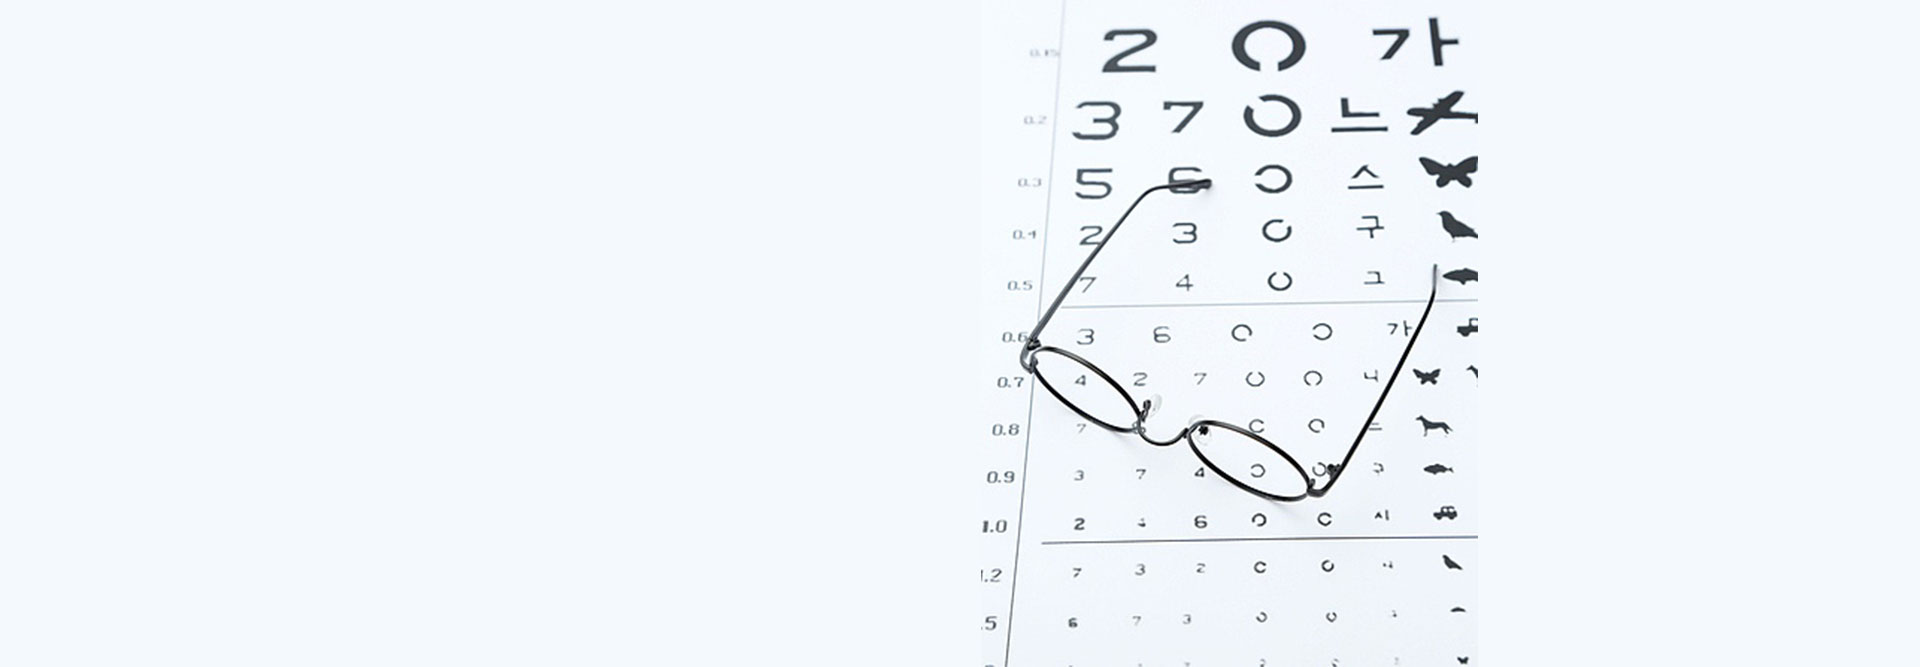
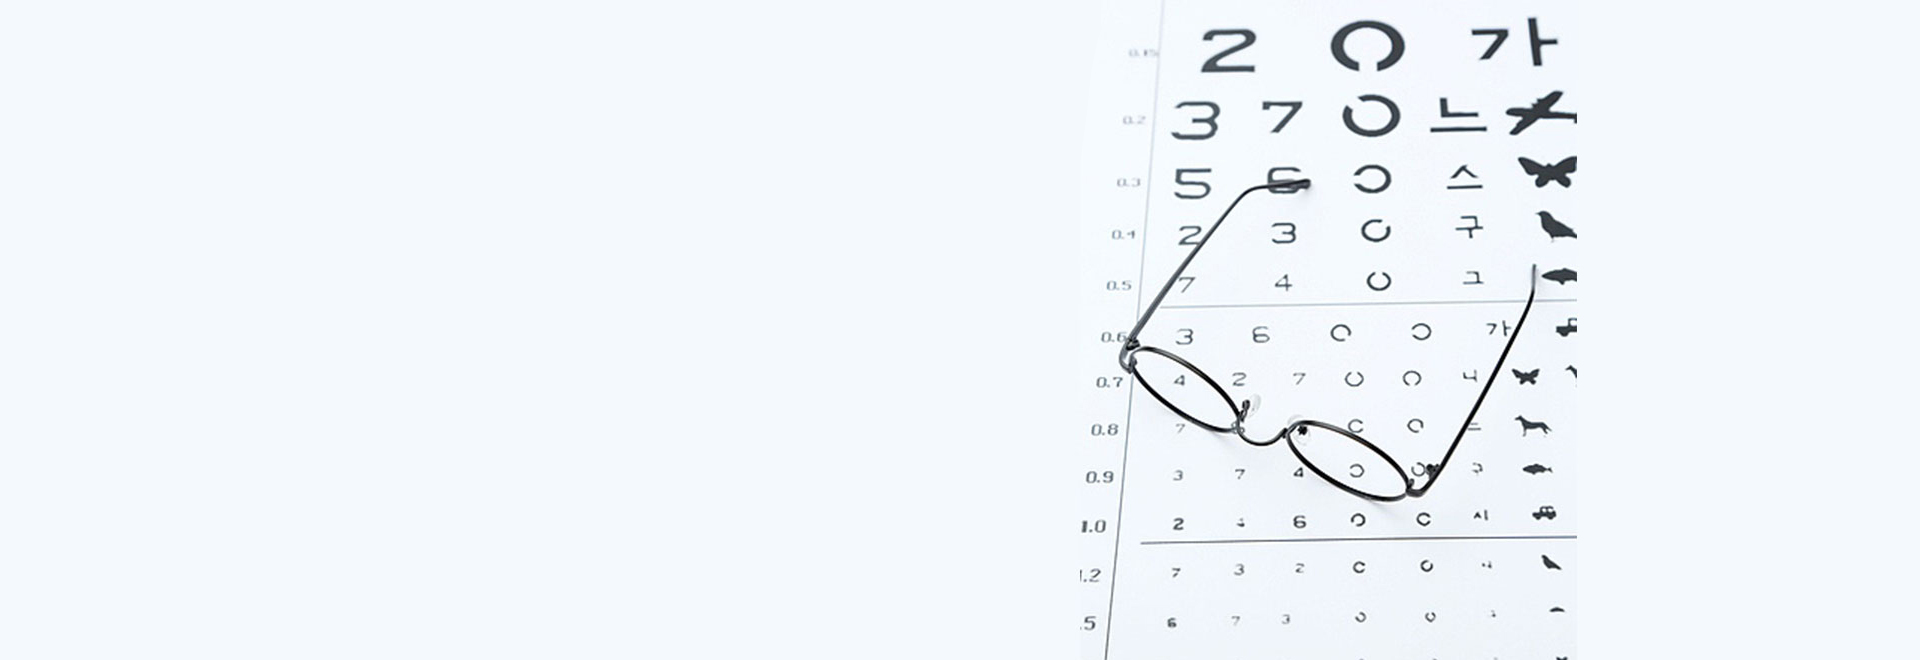
업데이트

diff --git a/css/mobile.css b/css/mobile.css
@@ -1,10 +1,11 @@
 @charset "utf-8";
-@media screen and (max-width:767px) { /* pc버전에 1200서식을 100%로 변경 */
+@media screen and (min-width:320px) and (max-width:767px) {
  .news_con, .tab_con article, .best_product article, .event, .es_wrap div, .gallery article, .girl, .f_inner nav { width:100%; } 
  header h1 {width:200px; } 
 
  /* 모바일 내비게이션 서식 */
- header nav { position:fixed; top:60px; width:100%; height:100%; z-index:1001; display:none; } 
+ header nav { position:fixed; top:60px; width:100%; height:100%; z-index:1001; display:none; }
+ .logo{z-index:1090;} 
  .gnb { width:90%; right:5%; top:90px; } 
  .gnb > ul { display:block; background:#fff; width:100%; } 
  .gnb > li { text-align:center; position:relative; } 
@@ -50,10 +51,10 @@
  .news_list>ul>li{margin-bottom:40px;}
  .news_list>ul>li>a{display:block;margin-bottom:20px;}
  .pub_photo { width:100%; position:relative; } 
-.photo { position:absolute; top:12%; left:6%; z-index:9000; } 
-.pub_photo>img { width:100%; height:700px; object-fit:cover; } 
+.photo { position:absolute; top:28%; left:50%; transform:translate(-50%,-50%); z-index:9000; } 
+.pub_photo>img { width:100%; height:900px; object-fit:cover; } 
 .photo>h2 { font-size:24px; line-height:35px; } 
-.photo>p { width:150px; font-size:16px; } 
+.photo>p { width:250px; font-size:16px; padding:10px 0px 50px 0px; } 
 .detail { border-bottom:1px solid #0056aa; text-align:center; padding:5px; font-size:17px; } 
  /* 4. 인기제품 */
 .best_product{padding:60px 0px 0px 0px;}
@@ -71,6 +72,8 @@ height:411px;
     margin-bottom: 50px;
  }
  .best_product ul>li>a img:hover {transform:scale(1);}
+ #banner_img{display:none;}
+ #banner_img2{display:block;}
 
  /* 5. 이벤트 슬라이드 */
  .event { margin:0px; } 

diff --git a/css/pc.css b/css/pc.css
@@ -84,13 +84,14 @@ line-height:20px;
  
  .pub_photo { width:100%;margin:0 auto; position:relative; } 
  .photo { position:absolute; top:25%; left:10%; z-index:9000; } 
- .pub_photo>img { width:100%; height:800px; } 
+ .pub_photo>img { width:100%; height:800px; object-fit:cover; } 
  .photo>h2 { font-size:28px; font-weight:bold; line-height:50px; margin-bottom:5px; } 
  .photo>p { font-size:18px; width:400px; line-height:30px; padding:10px 0px 100px 0px; } 
  .detail { border-bottom:1px solid #0056aa;; text-align:center; padding:5px; font-size:18px;transition:0.5s; }
  .detail:hover{
-background:#0056aa; color:#fff;
- } 
+background:#0056aa; color:#fff;}
+#banner_img2{display:none;}
+
  /* 이벤트 슬라이드 서식 */
  .event { width:1200px; margin:100px auto; position:relative; } 
  .e_slide { display:flex; position:relative; overflow:hidden; padding:50px 0px 100px 0px; } 

diff --git a/index.html b/index.html
@@ -187,6 +187,7 @@
                     <a href="#" title="자세히 보기" class="detail">자세히보기</a>
                 </div>
                 <img src="./images/random-slide1.png" alt="눈건강 시력 지킴이" id="banner_img">
+                <img src="./images/random-banner1.jpg" alt="눈건강 시력 지킴이" id="banner_img2">
             </article>
         </section>
     

diff --git a/script/script.js b/script/script.js
@@ -281,4 +281,9 @@ $(window).scroll(function(){
     let ran = Math.floor(Math.random()*3);
 
     document.getElementById('banner_img').src=`./images/${product_m[ran]}`;
+    
+    let product_m1 = ['random-banner1.jpg','random-banner2.jpg','random-banner3.jpg']
+    let ran1 = Math.floor(Math.random()*3);
+
+    document.getElementById('banner_img2').src=`./images/${product_m1[ran]}`;
   });

diff --git a/css/tablet.css b/css/tablet.css
@@ -54,6 +54,8 @@ line-height:20px;
  .pub_photo>img { width:100%; height:600px; } 
  
  .photo>p { width:310px; } 
+ #banner_img2{display:none;}
+
  
 /* 이벤트 슬라이드 서식 */
 .event { width:100%; margin:0px; padding-bottom:100px; } 
